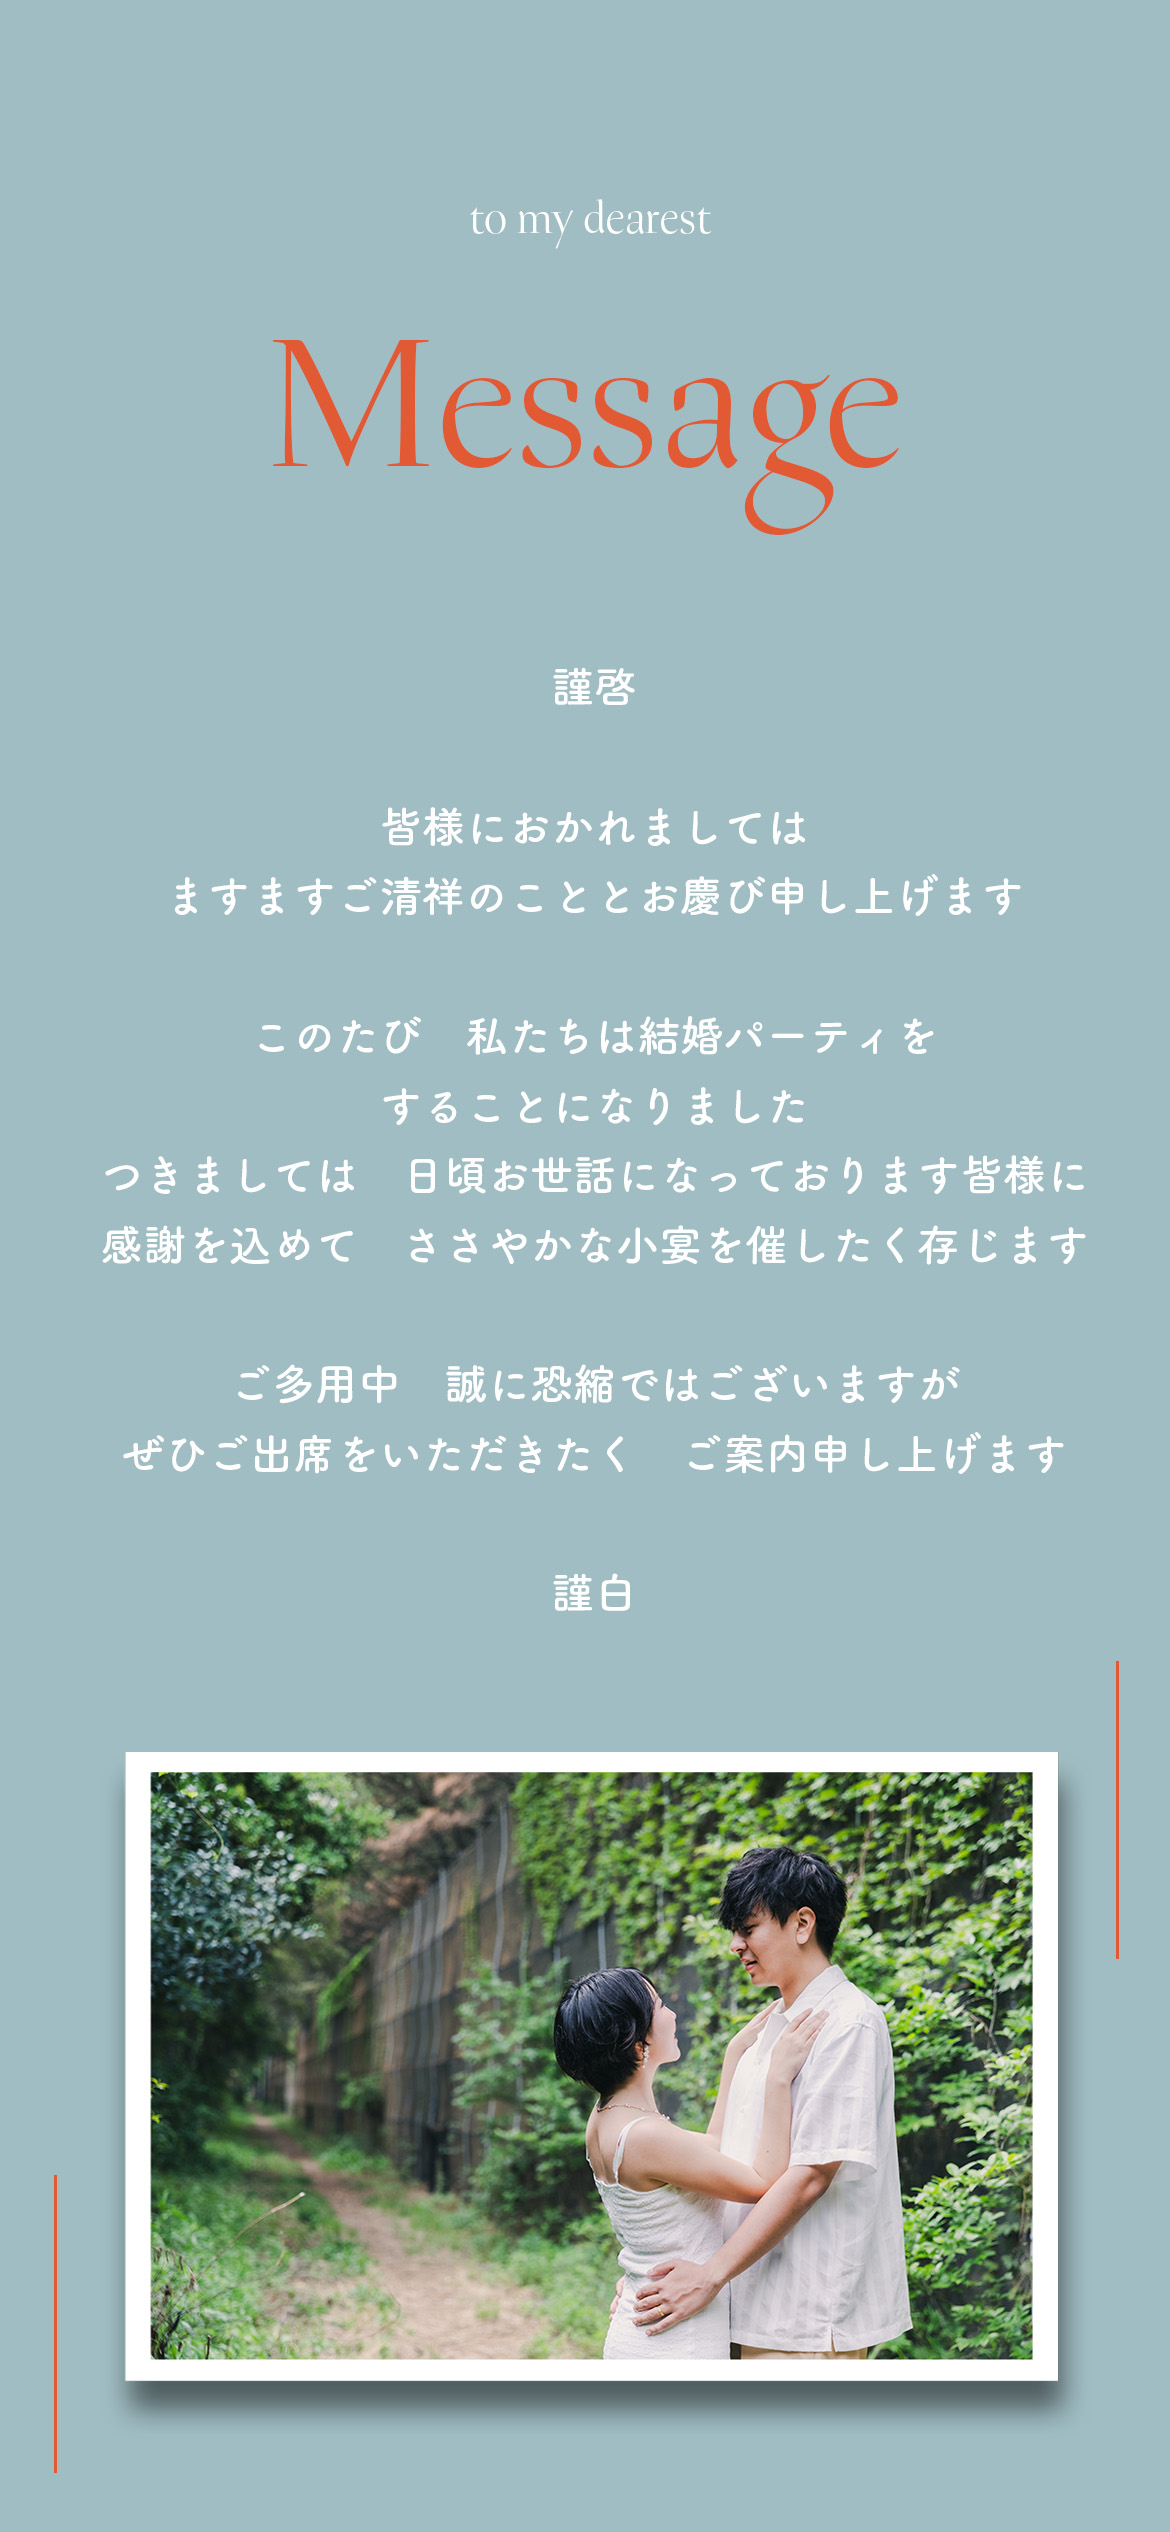
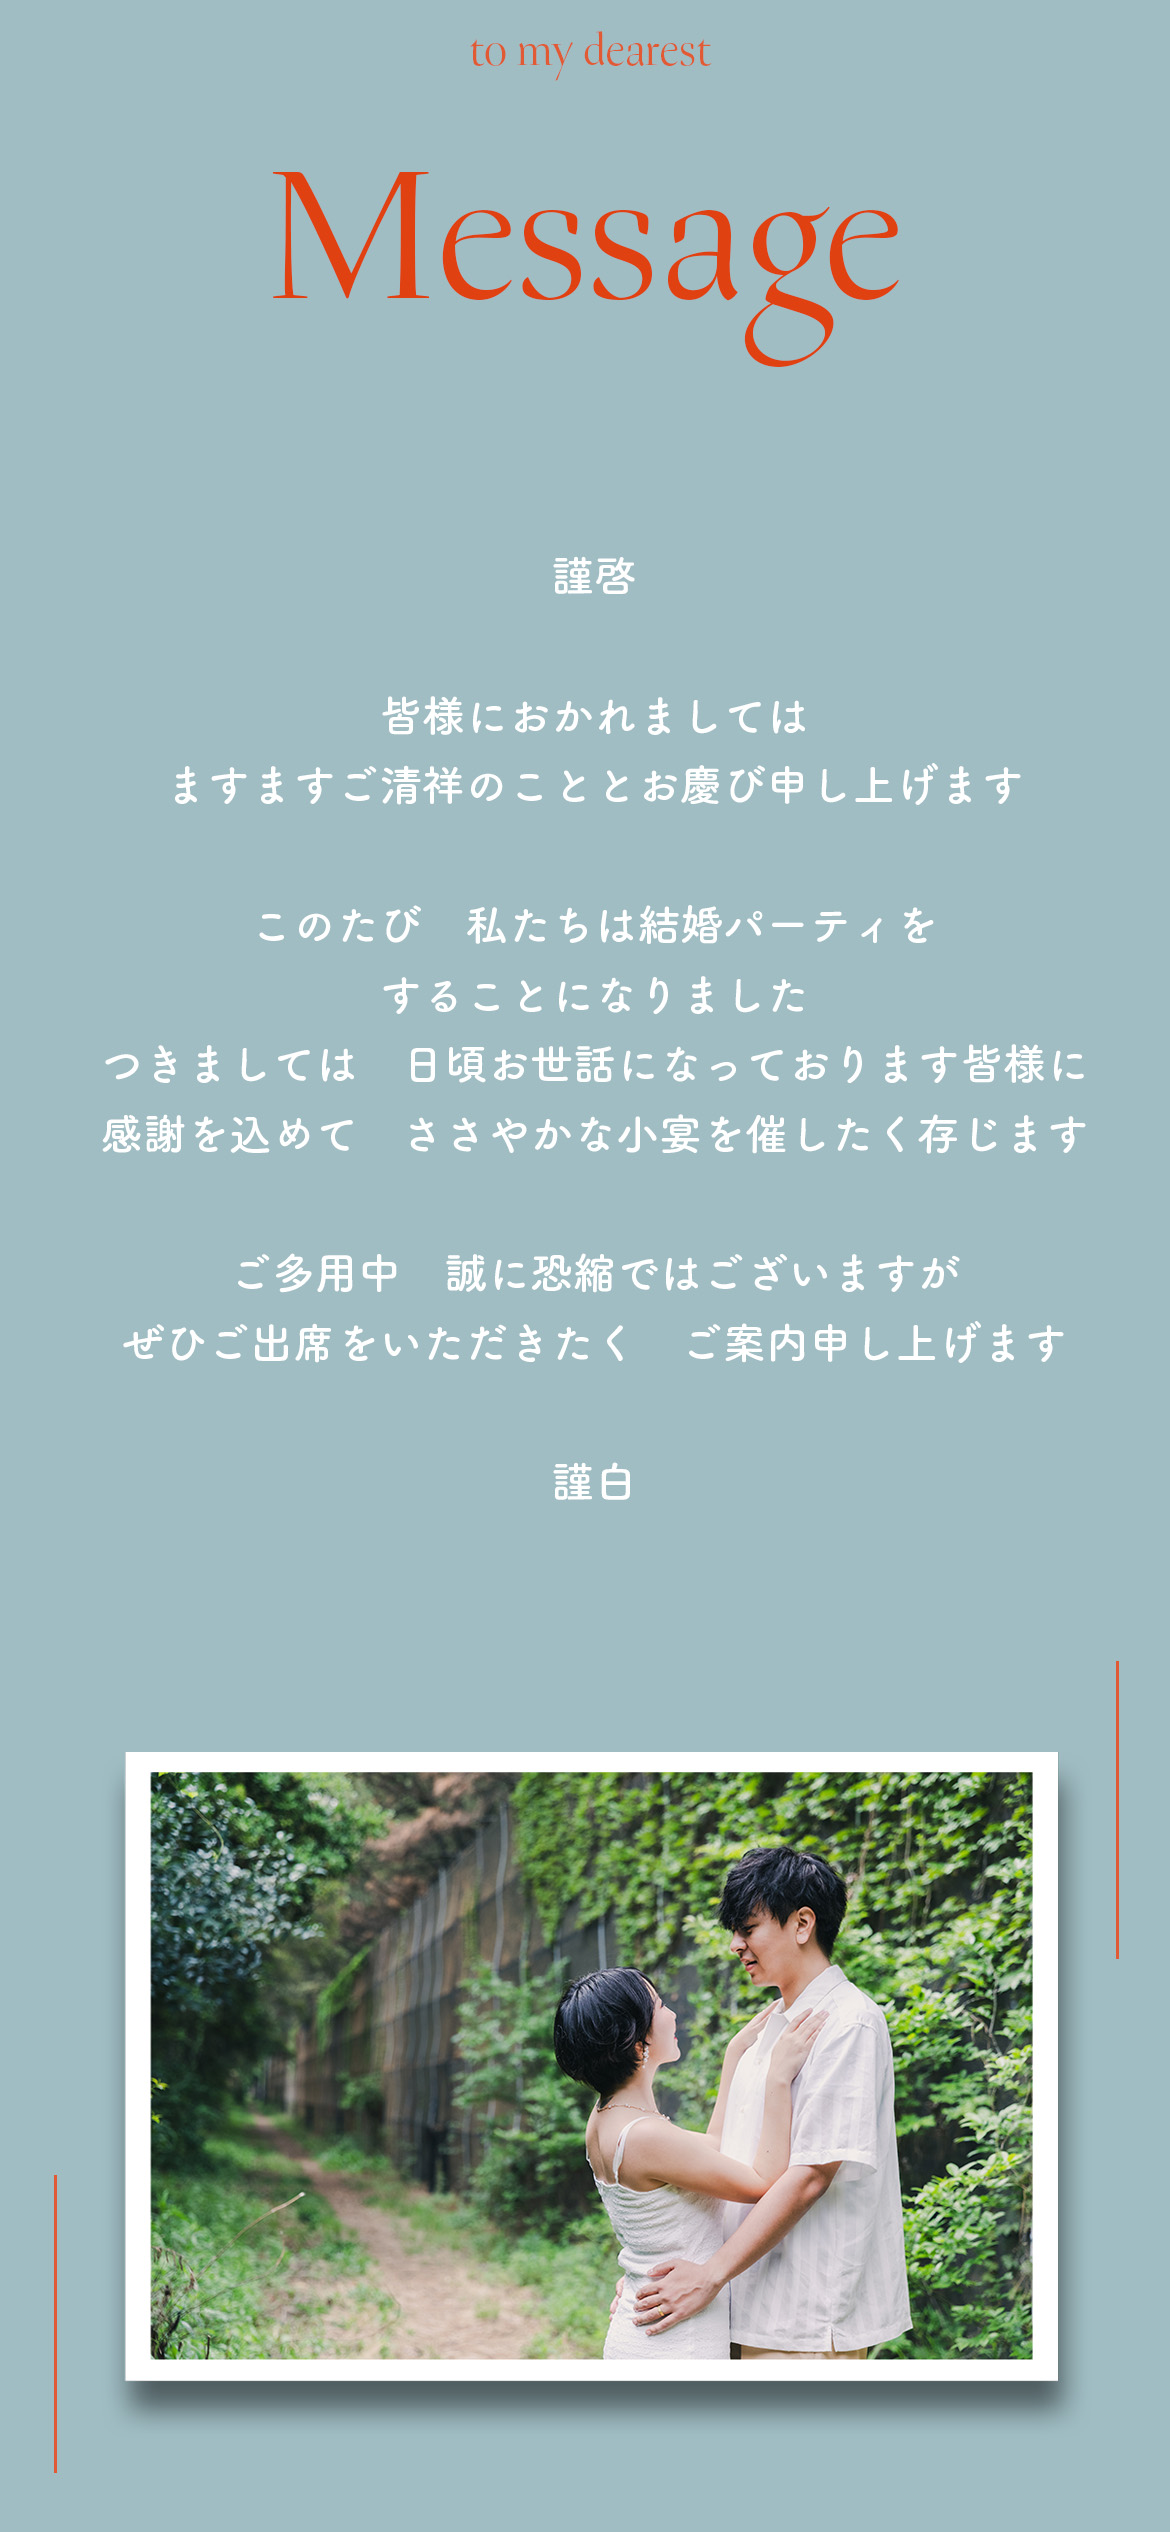
白線修正と今後画像追加

diff --git a/style.css b/style.css
@@ -1,19 +1,28 @@
 * {
+    margin: 0;
+    padding: 0;
     box-sizing: border-box;
 }
 
+
 #menu {
-    display: none; /* 初期状態は非表示 */
+    display: none;
+    /* 初期状態は非表示 */
 }
+
 #menu.show {
-    display: block; /* .show が付与された場合に表示 */
+    display: block;
+    /* .show が付与された場合に表示 */
 }
+
 .hamburger {
-    cursor: pointer; /* クリック可能なスタイル */
+    cursor: pointer;
+    /* クリック可能なスタイル */
 }
 
 /* ビュー設定: ビューポートに合わせた表示 */
-html, body {
+html,
+body {
     margin: 0;
     padding: 0;
     width: 100%;
@@ -23,24 +32,29 @@ html, body {
 
 /* コンテナの設定 */
 .saidai {
-    width: 100%; /* 幅を100%に */
-    box-sizing: border-box; /* パディングやボーダーも幅に含める */
+    width: 100%;
+    /* 幅を100%に */
+    box-sizing: border-box;
+    /* パディングやボーダーも幅に含める */
 }
 
 /* メインのセクション */
 .main {
-    width: 100%; /* 幅を100%に */
+    width: 100%;
+    /* 幅を100%に */
 }
 
 /* ヘッダー */
 .header-container {
     width: 100%;
-    background-color: #f8f8f8; /* ヘッダーの背景色（適宜変更） */
+    background-color: #f8f8f8;
+    /* ヘッダーの背景色（適宜変更） */
     padding: 10px 20px;
 }
 
 /* 見出しのスタイル */
-h1, h2 {
+h1,
+h2 {
     margin: 0;
     padding: 0;
     font-weight: normal;
@@ -49,45 +63,79 @@ h1, h2 {
 
 /* スマホ表示に特化したレスポンシブ設定 */
 @media screen and (max-width: 768px) {
+
     /* スマートフォンなど、画面幅が768px以下の場合に適用 */
     body {
-        font-size: 14px; /* スマホ用にフォントサイズを調整 */
+        font-size: 14px;
+        /* スマホ用にフォントサイズを調整 */
+        background-color: #A3B7B9;
     }
 
-    .header-container {
-    position: fixed;     /* ← 固定表示 */
-    top: 0;
-    left: 0;
-    width: 100%;
-    z-index: 9999;
-    background-color: #f8f8f8; /* 背景色で裏が透けないように */
-    padding: 10px 20px;
-    box-shadow: 0 2px 5px rgba(0, 0, 0, 0.1); /* お好みで影を付ける */
-}
 
-.picture {
-  display: block;
-}
+    * {
+        margin: 0;
+        padding: 0;
+        box-sizing: border-box;
+    }
+
+
+    .header-container {
+        position: fixed;
+        /* ← 固定表示 */
+        top: 0;
+        left: 0;
+        width: 100%;
+        z-index: 9999;
+        background-color: #f8f8f8;
+        /* 背景色で裏が透けないように */
+        padding: 10px 20px;
+        box-shadow: 0 2px 5px rgba(0, 0, 0, 0.1);
+        /* お好みで影を付ける */
+    }
+
+    .picture {
+
+
+        display: block;
+        width: 100%;
+        margin: 0;
+        padding: 0;
+
+
+    }
+
+
+    .image-container {
+        max-width: 100%;
+        overflow: hidden;
+        margin: 0;
+        padding: 0;
+    }
+
 
     iframe {
-        width: 100%; /* iframeの横幅を100%に */
-        height: auto; /* 高さは自動で調整 */
+        width: 100%;
+        /* iframeの横幅を100%に */
+        height: auto;
+        /* 高さは自動で調整 */
     }
 
     h1 {
-        font-size: 1.5rem; /* 見出しサイズ調整 */
+        font-size: 1.5rem;
+        /* 見出しサイズ調整 */
     }
 
     h2 {
-        font-size: 1rem; /* 見出し2のサイズ調整 */
+        font-size: 1rem;
+        /* 見出し2のサイズ調整 */
     }
 
     .picture {
         width: 100%;
         height: auto;
-      }
+    }
 
-      .nav-links {
+    .nav-links {
         flex: 1;
         text-align: right;
     }
@@ -174,14 +222,16 @@ h1, h2 {
         color: #dfbe2e
     }
 
-    
-    
+
+
 }
 
 /* 画面サイズが768px以上の場合 */
 @media screen and (min-width: 769px) {
     iframe {
-        width: 100%; /* 幅を100%に設定 */
-        height: 450px; /* 高さを固定 */
+        width: 100%;
+        /* 幅を100%に設定 */
+        height: 450px;
+        /* 高さを固定 */
     }
 }

diff --git a/index.html b/index.html
@@ -17,42 +17,49 @@
             <header class="header-container"></header>
         </div>
         <script src="./app.js"></script>
-
-        <div style="max-width: 100%; overflow: hidden;">
-            <img src="./画像/master1.jpg" alt="画像" class="picture" id="inv">
+        <div class="image-container">
+            <img src="./画像/画像1.jpg" alt="画像" class="picture" id="inv">
         </div>
-
-        <div style="max-width: 100%; overflow: hidden;">
-            <img src="./画像/master2.jpg" alt="画像" class="picture" id="mes">
+        <div class="image-container">
+            <img src="./画像/画像2.jpg" alt="画像" class="picture" id="mes">
         </div>
-
-        <div style="max-width: 100%; overflow: hidden;">
-            <img src="./画像/master3.jpg" alt="画像" class="picture" id="info">
+        <div class="image-container">
+            <img src="./画像/画像3.jpg" alt="画像" class="picture" id="info">
         </div>
-
-        <div style="max-width: 100%; overflow: hidden;">
-            <img src="./画像/master4.jpg" alt="画像" class="picture" id="loc">
+        <div class="image-container">
+            <img src="./画像/画像4.jpg" alt="画像" class="picture" id="loc">
         </div>
-
-        <div style="max-width: 100%; overflow: hidden;">
-            <img src="./画像/master5.jpg" alt="画像" class="picture" id="host">
-        </div>
-
-        <div style="max-width: 100%; overflow: hidden;">
-            <img src="./画像/master6.jpg" alt="画像" class="picture">
-        </div>
-
         <iframe
             src="https://www.google.com/maps/embed?pb=!1m18!1m12!1m3!1d3254.8308460122303!2d139.36662197638955!3d35.335021772701!2m3!1f0!2f0!3f0!3m2!1i1024!2i768!4f13.1!3m3!1m2!1s0x601853a0d8b22783%3A0x4f195013de33c201!2zQlEgTUFSSU5BIOa5mOWNlw!5e0!3m2!1sja!2sjp!4v1737177783714!5m2!1sja!2sjp"
             width="600" height="450" style="border:0;" allowfullscreen loading="lazy"
             referrerpolicy="no-referrer-when-downgrade"></iframe>
-
-        <div style="max-width: 100%; overflow: hidden;">
-            <img src="./画像/master7.jpg" alt="画像" class="picture">
+        <div class="image-container">
+            <img src="./画像/画像10.jpg" alt="画像" class="picture">
+        </div>
+        <div class="image-container">
+            <img src="./画像/画像5.jpg" alt="画像" class="picture">
         </div>
 
-        <div style="max-width: 100%; overflow: hidden;">
-            <img src="./画像/master8.jpg" alt="画像" class="picture">
+        <div class="image-container">
+            <img src="./画像/画像8.jpg" alt="画像" class="picture">
+        </div>
+
+        <div class="image-container">
+            <img src="./画像/画像11.jpg" alt="画像" class="picture" id="host">
+        </div>
+        <div class="image-container">
+            <img src="./画像/画像6.jpg" alt="画像" class="picture">
+        </div>
+        <div class="image-container">
+            <img src="./画像/画像7.jpg" alt="画像" class="picture">
+        </div>
+        <div class="image-container"
+            href="https://docs.google.com/forms/d/e/1FAIpQLSdv9_8pv90gPvaVdUKrb5V31LvOWMYAHvqYNPB7v8NO1gOE5A/viewform?usp=sharing"
+            target="_blank">
+            <a href="https://docs.google.com/forms/d/e/1FAIpQLSdv9_8pv90gPvaVdUKrb5V31LvOWMYAHvqYNPB7v8NO1gOE5A/viewform?usp=sharing"
+                target="_blank" class="image-container">
+                <img src="./画像/画像9.jpg" alt="画像" class="picture">
+            </a>
         </div>
     </div>
 </body>
